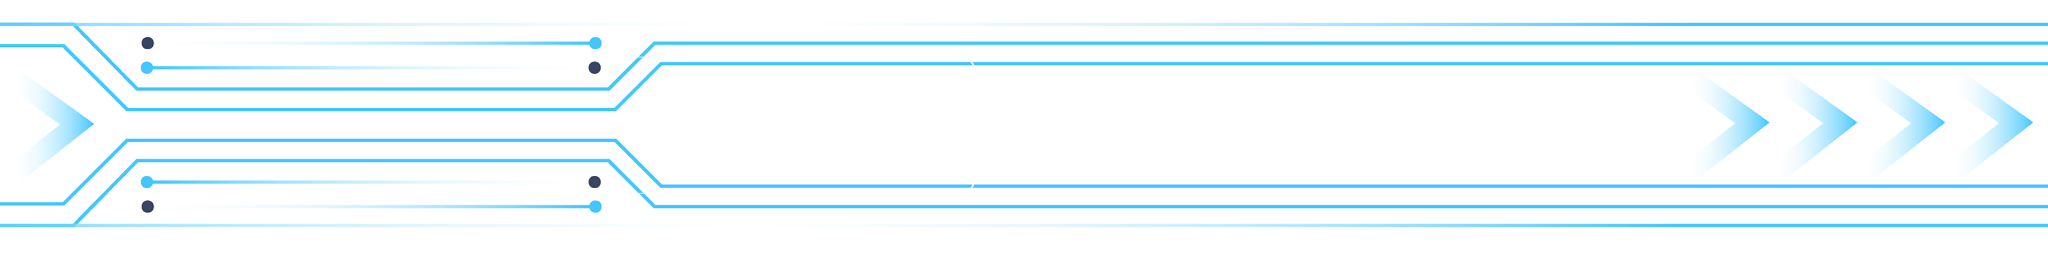
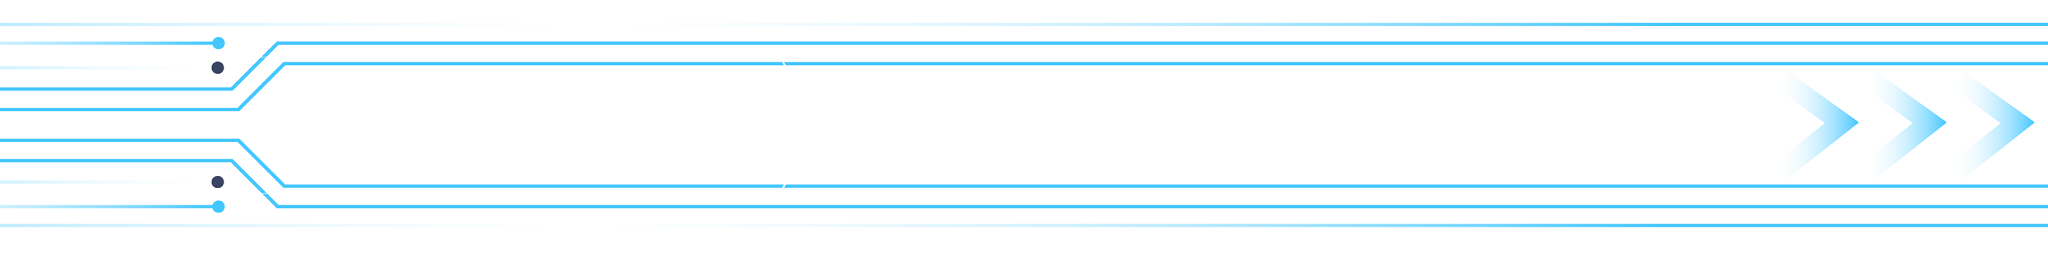
Changing header image and report content

diff --git a/src/pages/Report.js b/src/pages/Report.js
@@ -397,7 +397,7 @@ const SolutionsLandscape = () => (
         Privacy by Design [35], and new legislation. Privacy by Design
         encourages businesses to take proactive action in regards to privacy,
         building it into their core values. Additionally, encouraging lawmakers
-        to improve current regulations (such as PIPPEDA [36], FIPs [37], GDPR
+        to improve current regulations (such as PIPEDA [36], FIPs [37], GDPR
         [38], California Consumer Privacy Act [39] etc.) will enforce businesses
         to have privacy in their minds. The US Congress has a bill known as the
         “Fundamentally Understanding The Usability and Realistic Evolution of
@@ -477,39 +477,44 @@ const GapsLevers = () => (
       </p>
 
       <div className="report__levers">
-        <h2 className="report__levers--title">Levers</h2>
+        <h2 className="report__levers--title">Levers of Change</h2>
         <ol className="report__gaps">
           <li className="report__gaps--point">
             Educate from younger ages, integrate AI into learning
             <ul className="report__gaps--subpoint">
-              <li>Introduce AI technologies from a young age</li>
+              <li>Introduce AI technologies from a younger age; ex. coding tools for toddlers</li>
               <li>
-                While this may not be attainable at home, because of cost or
-                lack of accessibility, these technologies should be integrated
-                into school systems in order to familiarize as much youth as
-                possible
+                Recognizing this may not be attainable at home, due to cost or lack 
+                of accessibility, these technologies should be integrated into schools 
+                in order to familiarize youth as much as possible
               </li>
               <li>
-                This would both spark interest in in AI from a young age and
-                also desensitize people to limit the stigmas so often felt today
+                Results in sparking interest in in AI from a young age and allows the 
+                limitation of the stigmas felt today
               </li>
             </ul>
           </li>
           <li className="report__gaps--point">
-            Promote widespread coding knowledge
+            Promote widespread programming knowledge
             <ul className="report__gaps--subpoint">
-              <li>To avoid a gap between “coders” and “non-coders”</li>
+              <li>Avoid a gap between “coders” and “non-coders”</li>
               <li>
-                Coding can be a daunting area of technology use, and often feels
-                alien to those who are not familiar
+                Programming currently often feels alien to those who are not familiar, 
+                can be daunting to start
               </li>
               <li>
-                Teaching very basic coding languages throughout school will, at
-                least, familiarize more people with the concept of what coding
-                is and what is does, to allow for a better understanding of how
-                technology and AI work, empowering people and giving them more
-                positive feelings of control
+                Embed programming literacy (techniques, systems, ways of thinking) 
+                in addition to learning programming languages in classrooms; allows 
+                for or a better understanding of how technology and AI work, empowering 
+                people and giving them more positive feelings of control
               </li>
+            </ul>
+          </li>
+          <li className="report__gaps--point">
+            More Communication from AI and Technology Companies
+            <ul className="report__gaps--subpoint">
+              <li>Using the ADKAR model (make aware, make desirable, use feedback to 
+                gain knowledge, ensure ability, and reinforce abilities)</li>
             </ul>
           </li>
         </ol>
@@ -524,44 +529,39 @@ const GapsLevers = () => (
       </p>
 
       <div className="report__levers">
-        <h2 className="report__levers--title">Levers</h2>
+        <h2 className="report__levers--title">Levers of Change</h2>
         <ol className="report__gaps">
           <li className="report__gaps--point">
-            More accountability from AI/big tech companies
+            More Accountability from AI and Technology Companies
             <ul className="report__gaps--subpoint">
               <li>
-                Currently there are few laws restricting data collection/use,
-                therefore big tech companies can use our data in any ways they
-                want
+                Currently there are few laws restricting data collection and use, 
+                therefore big tech companies can use our data in any ways they want
               </li>
               <li>
-                The world’s most traded commodity is data, companies treet their
-                market like currency. This makes consumers not want to provide
-                the information that supports this
+                The world’s most traded commodity is data, companies treat it like 
+                currency. Resulting in consumers not wanting to provide their information
               </li>
               <li>
-                create awareness about what actually happens to our data to
-                empower people to choose whether or not to offer it through tech
-                use
+                Create awareness about what actually happens to our data to empower 
+                people to choose whether or not to offer it through technology use
               </li>
             </ul>
           </li>
           <li className="report__gaps--point">
-            Normalize data transparency
+            Normalize Data Transparency
             <ul className="report__gaps--subpoint">
               <li>
-                Normalization of data transparency pushes and promotes data
-                privacy in everyday designs
+                Normalization of data transparency pushes and promotes Privacy by Design [41]
               </li>
               <li>
-                What’s ideal: a shift in ideology among consumers that personal
-                data isn’t property that can be bought, sold or solicited
+                What’s ideal: a shift in ideology among consumers that personal data isn’t 
+                property that can be bought, sold or solicited [42]
               </li>
               <li>
-                Since it has been commodified and assigned value, what’s more
-                realistic is promoting data as information that can be utlizied
-                to make positive developments in technology, but this requires
-                trust that it will not be used against us
+                Due to data’s commodified and assigned value, what’s more realistic is promoting 
+                data as information that can be utilized to make positive developments in technology, 
+                but this requires trust that it will not be used against us
               </li>
             </ul>
           </li>
